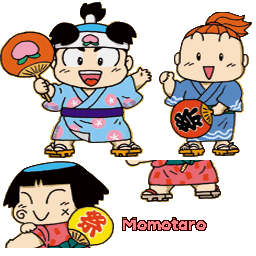
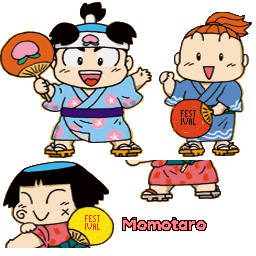
Translate attract-portrait fan lettering and coat numerals

Changed region(s): [[0.6562, 0.4062, 0.8125, 0.5312], [0.2812, 0.8125, 0.4375, 0.9375]]

diff --git a/tools/gfx_intro.py b/tools/gfx_intro.py
@@ -1,0 +1,94 @@
+"""Translate lettering inside the attract portraits, keeping the prop silhouettes.
+
+Only the two fan faces and ten white coat badges are editable. The masks
+exclude the coloured fan ribs, badge borders, cloth and transparent pixels.
+"""
+from PIL import Image
+
+
+# Atlas bounds include all antialiased Japanese ink; new words use native
+# seven-pixel letters, split FEST / IVAL to retain the full word on each fan.
+FANS = [
+    ((76, 210, 107, 239), (248, 224, 8, 255), (224, 56, 24, 255), (85, 215)),
+    ((173, 106, 204, 132), (224, 64, 24, 255), (0, 0, 0, 255), (181, 110)),
+]
+FAN_HANDLES = ((202, 102, 214, 124), (68, 235, 84, 248))
+# Each numeral follows the size/angle of its original badge. Partial badges
+# clip the same numeral at the original coat edge, never repainting the cloth.
+BADGES = [
+    ((124, 32, 138, 41), (130, 36), (6, 11), -48),
+    ((170, 32, 188, 43), (179, 37), (7, 12), 48),
+    ((123, 62, 134, 80), (128, 71), (5, 10), 0),
+    ((171, 62, 185, 82), (178, 72), (7, 11), 8),
+    ((112, 99, 123, 115), (117, 107), (7, 12), -15),
+    ((132, 101, 140, 120), (138, 110), (7, 12), -6),
+    ((168, 109, 176, 121), (169, 115), (7, 12), 22),
+    ((183, 101, 199, 118), (191, 110), (8, 12), 40),
+    ((111, 130, 122, 147), (116, 138), (7, 12), -9),
+    ((190, 134, 204, 149), (198, 142), (8, 12), 28),
+]
+
+
+def rectangles(key):
+    return ([row[0] for row in FANS] if key == 'CHR0D.BIN:1' else
+            [row[0] for row in BADGES] if key == 'CHR0D.BIN:2' else [])
+
+
+def masks(im, key):
+    """Exact allowed pixel mask; tests also protect every excluded prop pixel."""
+    allowed = Image.new('L', im.size)
+    px = im.load()
+    for rect in rectangles(key):
+        x0, y0, x1, y1 = rect
+        for y in range(y0, y1):
+            for x in range(x0, x1):
+                r, g, b, a = px[x, y]
+                if key == 'CHR0D.BIN:1':
+                    editable = a and not any(
+                        left <= x < right and top <= y < bottom
+                        for left, top, right, bottom in FAN_HANDLES)
+                else:
+                    # White/grey/black badge ink, excluding saturated red/green.
+                    editable = a and max(r, g, b) - min(r, g, b) <= 24
+                if editable:
+                    allowed.putpixel((x, y), 255)
+    return allowed
+
+
+def draw(im, key, pal):
+    import gen_gfx
+
+    allowed = masks(im, key)
+    if key == 'CHR0D.BIN:1':
+        for rect, background, ink, (x, y) in FANS:
+            assert background in pal and ink in pal
+            # Yellow fan: remove only the red/cream ink. Red fan: remove the
+            # black/grey lettering. The solid face colour is already present.
+            for py in range(rect[1], rect[3]):
+                for px in range(rect[0], rect[2]):
+                    r, g, b, a = im.getpixel((px, py))
+                    erase = (r > 180 and (g < 170 or b > 90)) if x < 100 else (
+                        max(r, g, b) - min(r, g, b) <= 40 or b > 60)
+                    if allowed.getpixel((px, py)) and erase:
+                        im.putpixel((px, py), background)
+            for n, word in enumerate(('FEST', 'IVAL')):
+                mask = gen_gfx.mask(word, 7, {'pixel': 'credits7.txt', 'tight': True})
+                im.paste(ink, (x, y + n * 8, x + mask.width, y + n * 8 + mask.height), mask)
+    elif key == 'CHR0D.BIN:2':
+        white, black = (240, 232, 232, 255), (0, 0, 0, 255)
+        assert white in pal and black in pal
+        # Hand-drawn numeral, expanded with nearest-neighbour before rotation.
+        six = Image.new('L', (5, 7))
+        for y, row in enumerate(('.###.', '#....', '#....', '####.', '#...#', '#...#', '.###.')):
+            for x, c in enumerate(row):
+                if c == '#':
+                    six.putpixel((x, y), 255)
+        for rect, (cx, cy), size, angle in BADGES:
+            mask = six.resize(size, Image.Resampling.NEAREST).rotate(angle, expand=True)
+            layer = Image.new('L', im.size)
+            layer.paste(mask, (cx - mask.width // 2, cy - mask.height // 2))
+            for y in range(rect[1], rect[3]):
+                for x in range(rect[0], rect[2]):
+                    if allowed.getpixel((x, y)):
+                        im.putpixel((x, y), black if layer.getpixel((x, y)) else white)
+    assert set(im.getdata()) <= pal

diff --git a/tests/test_anm.py b/tests/test_anm.py
@@ -15,6 +15,7 @@ import gfx_layout  # noqa: E402
 import gfx_results  # noqa: E402
 import gfx_racers  # noqa: E402
 import gfx_hud  # noqa: E402
+import gfx_intro  # noqa: E402
 import verify_build  # noqa: E402
 
 
@@ -33,7 +34,7 @@ def test_table_location_and_signed_offsets():
 
 
 @pytest.mark.skipif(not gfx.TREE.exists(), reason='needs work/disc')
-def test_intro_names_preserve_every_character_pixel_and_split_name(tmp_path):
+def test_intro_preserves_art_outside_lettering_and_split_name(tmp_path):
     from PIL import Image
     original = arc.entries((gfx.TREE / 'CHR0D.BIN').read_bytes())
     translated = arc.entries(gfx.apply('CHR0D.BIN', (gfx.TREE / 'CHR0D.BIN').read_bytes()))
@@ -45,7 +46,21 @@ def test_intro_names_preserve_every_character_pixel_and_split_name(tmp_path):
         before, after = tmp_path / f'old{entry}', tmp_path / f'new{entry}'
         anm.render(original, records, before, strict=True)
         anm.render(translated, records, after, strict=True)
-        assert Image.open(before / '000.png').tobytes() == Image.open(after / '000.png').tobytes()
+        # The only portrait edits are fan lettering and coat numerals. Render
+        # a source archive with those edits alone to catch accidental name-box
+        # damage to ANY character, even where atlas fragments are shared.
+        expected = list(original)
+        for texture_entry in (1, 2):
+            key = f'CHR0D.BIN:{texture_entry}'
+            texture, picture = gen_gfx.original(key)
+            palette = {c if c[3] else gen_gfx.CLEAR for c in gfx.palette(texture, 0)}
+            gfx_intro.draw(picture, key, palette)
+            png = tmp_path / f'portrait{texture_entry}.png'
+            picture.save(png)
+            expected[texture_entry] = (original[texture_entry][0], gfx.redraw(texture, png))
+        reference = tmp_path / f'art{entry}'
+        anm.render(expected, records, reference, strict=True)
+        assert Image.open(reference / '000.png').tobytes() == Image.open(after / '000.png').tobytes()
         assert Image.open(before / '001.png').tobytes() != Image.open(after / '001.png').tobytes()
     # The split name reconstructs exactly the same 88x32 canvas as a single
     # English draw, including the narrow third fragment at the lower left.

diff --git a/tests/test_gfx.py b/tests/test_gfx.py
@@ -15,6 +15,7 @@ import gfx_results  # noqa: E402
 import gfx_racers  # noqa: E402
 import gfx_hud  # noqa: E402
 import gfx_signs  # noqa: E402
+import gfx_intro  # noqa: E402
 import tim  # noqa: E402
 
 pytestmark = pytest.mark.skipif(not gfx.TREE.exists(), reason="needs work/disc (dumpsxiso)")
@@ -26,6 +27,29 @@ def test_pixel_labels_have_every_glyph_and_fit():
             if options.get('pixel'):
                 mask = gen_gfx.fit(text, x1 - x0, y1 - y0, options)
                 assert mask.width <= x1 - x0 and mask.height <= y1 - y0, (key, text)
+
+
+def test_intro_props_preserve_silhouettes_cloth_and_fan_handles():
+    from PIL import Image
+    for entry in (1, 2):
+        key = f'CHR0D.BIN:{entry}'
+        _, before = gen_gfx.original(key)
+        after = Image.open(gfx.EN / f'CHR0D_{entry}.png').convert('RGBA')
+        # Restrict this comparison to portrait pixels; names intentionally
+        # change their alpha masks in the lower atlas rows.
+        height = 184 if entry == 2 else 208
+        assert before.crop((0, 0, 256, height)).getchannel('A').tobytes() == (
+            after.crop((0, 0, 256, height)).getchannel('A').tobytes())
+        if entry == 2:
+            for y in range(184):
+                for x in range(256):
+                    c = before.getpixel((x, y))
+                    if max(c[:3]) - min(c[:3]) > 24:
+                        assert after.getpixel((x, y)) == c, (x, y)
+        else:
+            # Bamboo ribs and handles adjacent to both translated fan faces.
+            for rect in ((202, 102, 214, 124), (68, 235, 84, 248)):
+                assert before.crop(rect).tobytes() == after.crop(rect).tobytes()
 
 
 def test_roundtrip_and_one_pixel(tmp_path):
@@ -69,6 +93,7 @@ def test_redraws_change_only_declared_label_rectangles():
             rects += [(u, v, u + w, v + h) for u, v, w, h, _, _ in pieces]
         rects += [(u, v, u + w, v + h) for _, pieces in gen_gfx.COMPOSITES.get(key, [])
                   for u, v, w, h, _, _ in pieces]
+        rects += gfx_intro.rectangles(key)
         name, entry = key.split(':')
         t, _ = gen_gfx.original(key)
         png = gfx.EN / f'{Path(name).stem}_{entry}.png'

diff --git a/tools/gen_gfx.py b/tools/gen_gfx.py
@@ -32,6 +32,7 @@ import gfx_results  # noqa: E402
 import gfx_racers  # noqa: E402
 import gfx_hud  # noqa: E402
 import gfx_signs  # noqa: E402
+import gfx_intro  # noqa: E402
 
 FONT = ROOT / 'fonts' / 'ofl' / 'Fredoka.ttf'
 CLEAR = (0, 0, 0, 0)
@@ -389,6 +390,8 @@ def generate(keys=None):
             gfx_hud.draw_panel(im)
         if key in gfx_signs.SIGNS:
             gfx_signs.draw(im, key, pal)
+        if key.startswith('CHR0D.BIN:'):
+            gfx_intro.draw(im, key, pal)
         for k in same[t]:
             name, _, e = k.partition(':')
             out = gfx.EN / f'{Path(name).stem}_{e}.png'

diff --git a/docs/re/character-props-qa.md b/docs/re/character-props-qa.md
@@ -1,0 +1,94 @@
+# Character portrait lettering (phase 8)
+
+The remaining lettering in the five title-attract portraits is translated:
+Kintaro and Urashima's fans say **Festival**, and Ishikawa Rokuemon's ten coat
+badges use **6** for their stylized 六 marks. This closes the portrait lettering
+in survey rows #1/#2, including the earlier name-label work. It does not close
+phase 8, the four separate GCV0310 name tags, or other occurrences of festival
+marks in ending/card artwork.
+
+## Source and preservation
+
+`tools/gfx_intro.py` redraws only bounded regions of CHR0D:1/2. Both fans use
+the complete word, split FEST / IVAL in the existing seven-pixel condensed
+font. Their colours come from the original palette. The coat uses a hand-drawn
+5x7 numeral, scaled/rotated to match the badges; two badges show the complete
+numeral and eight are naturally clipped by the coat edges or folds.
+
+All palettes, ANM records, timings and sprite positions are unchanged. The
+archive-wide exact-TIM duplicate search finds only these two affected images.
+The pixel-range test allows the named regions only; the portrait test renders
+every character to ensure the name-label redraws do not damage other artwork.
+A separate preservation test checks alpha silhouettes, all coloured coat
+pixels, and both bamboo fan handles. The first redraw failed that last test at
+two rib pixels, which are now explicitly excluded. The narrow left badge also
+needed its numeral moved left one pixel to preserve its closed lower loop.
+
+## Cold reproduction
+
+```text
+python -X utf8 tools/gen_gfx.py --only CHR0D.BIN:1 CHR0D.BIN:2
+python -X utf8 tools/build.py
+python -X utf8 tools/debug/character_intro.py --out work/qa/props8_final
+python -X utf8 tools/debug/character_intro.py --original --out work/qa/props8_original
+```
+
+The existing harness waits through the natural title sequence for 9,600 frames,
+without controller input, save data, warps or RAM substitutions. Both runs pass
+**5/5 complete character/name pairs**, matched in the same screenshot. The
+complete portrait match includes all edited prop pixels, not just the name.
+
+| Character | Frame on both discs | Portrait position |
+|---|---|---|
+| Momotaro | 6540 | 24,48 |
+| Kintaro | 7080 | 168,66 |
+| Urashima | 7560 | 176,40 |
+| Yashahime | 8040 | 32,24 |
+| Ishikawa Rokuemon | 8520 | 40,16 |
+
+The intro produces no textlog output: **0 Japanese lines in 0 logs** supplies
+no text coverage. Approval rests on the full-portrait oracle and visual pass.
+
+## Fresh read-only review (D10)
+
+After the final build and cold runs, the worker inspected all three full-screen
+comparison sheets at 2x, with English left and original right. The verdicts in
+`work/qa/props8_review/verdicts/fresh.tsv` accept all three: both full fan words
+are readable, the two complete numerals have their closed lower loops, partial
+badges follow the original folds, and the characters/full names remain intact.
+The fans have subtle original colour variation around the lettering; this is
+not remaining Japanese text. No changes were made after this review.
+
+| Sheet | SHA-1 | Verdict |
+|---|---|---|
+| kintaro_sheet | de8d340e221103a2c8b1a416b518e9cf4fcbf559 | ok |
+| urashima_sheet | 56c7db85a751a13f62d9d36970fae19b93b0bdc7 | ok |
+| rokuemon_sheet | 5971ebc8e5edf75670ed0ce731cff2ef20a584a5 | ok |
+
+Regenerate each sheet with the skill's `sheet.py`, passing the English frame,
+`--compare` the same original frame, `--zoom 2`, and the corresponding
+`--out work/qa/props8_review/<name>_sheet.png`. Then run:
+
+```text
+python -X utf8 <skill>/scripts/qa_gate.py init work/qa/props8_review/manifest.tsv work/qa/props8_review
+python -X utf8 <skill>/scripts/qa_gate.py check work/qa/props8_review/manifest.tsv work/qa/props8_review/verdicts
+```
+
+The scoped gate passes **3/3 sheets**. This is a fresh self-review explicitly
+permitted by D10, not an independent agent review or a phase-wide verdict.
+
+## Build and remaining work
+
+`build/momotarou-matsuri_en.bin`: **182,491,680 bytes**, **2026-11-01 07:11:40 UTC**,
+SHA-1 **6fd935950a81755dcc5a37796150790508af9c6c**. Validation: **76 tests passed**,
+lint 0; verifier **369 changed files / 0 errors**; cold smoke
+`work/qa/props8_smoke` passes.
+
+Phase 8 remains incomplete. Other card/ending/town graphics, the full visual
+manifest, caption routes, saved-record categories, natural minigame outcomes
+and corrected map-interaction/story-state coverage are still open. These three
+sheets do not authorize phase 9 or a release.
+
+Gotcha for `references/graphics.md`: a bounding rectangle around lettering on a
+prop may include the prop's ribs or handle; preserve those with an explicit
+pixel exclusion and regression comparison. No shared skill files were changed.

diff --git a/docs/status.md b/docs/status.md
@@ -4,6 +4,18 @@ Updated at the end of every session. Keep it to what the next session needs; his
 
 - **Phase:** **8 in progress** (QA in the emulator), then 9 (release).
 - **Done (phase 8 so far, 2026-11-01):**
+  - Attract-portrait prop checkpoint: both fans now say the complete Festival (FEST / IVAL); Rokuemon's ten
+    stylized six badges use 6, with the eight partial badges clipped by their original coat edges/folds.
+    Explicit masks preserve fan ribs/handles, coloured cloth, borders and all sprite/animation data.
+    Regression checks caught two rib pixels and the narrow numeral's lower-loop clipping; both are fixed.
+  - Natural cold original and English runs each pass **5/5 complete character/name pairs**, including every
+    prop pixel. Fresh read-only D10 review accepts **3/3 scoped full-screen comparisons**;
+    `docs/re/character-props-qa.md` records reproduction and verdict hashes. Survey rows #1/#2 portrait
+    lettering are covered; separate ending/card festival marks and GCV0310 tags are not.
+  - Latest validation: **76 tests passed**, lint 0; verifier **369 changed files / 0 errors**; cold smoke
+    `work/qa/props8_smoke` passed. Intro textlog emits no lines, so 0 logs is not text coverage.
+    Main disc: **182,491,680 bytes**, **2026-11-01 07:11:40 UTC**, SHA-1
+    **6fd935950a81755dcc5a37796150790508af9c6c**. **Phase 8 remains incomplete; do not advance to release.**
   - Character-introduction checkpoint: Momotaro, Kintaro, Urashima, Yashahime and the full Ishikawa Rokuemon
     name are English in CHR0D:1/2. Yashahime was three fragments of one name, not two copies; the composite
     redraw and regression test preserve every character pixel and all ANM data.
@@ -221,9 +233,9 @@ Updated at the end of every session. Keep it to what the next session needs; his
     156,128 bytes (game_m25/m70-72 minigames), so English growth (a few KB per file) is far from the limit.
     15 runs of that sweep died with emulator exit -1 while other emulators ran; all 15 passed on a rerun.
 - **Next (phase 8):**
-  - Character names now have natural attract-mode proof. The Japanese festival marks on Kintaro/Urashima's
-    fans and Rokuemon's costume marks still need translation/classification under D5; the four small name
-    tags in GCV0310D:13 are separate. `character-intro-qa.md` records exact name-piece bounds and cold routes.
+  - Character names, fan lettering and coat numerals now have natural attract-mode proof. The four small
+    name tags in GCV0310D:13 are separate outstanding work. `character-intro-qa.md` and
+    `character-props-qa.md` record exact bounds, preservation tests and cold routes.
   - Re-run the full text/visual tour with the corrected destination initializers. Older map shots lacked the
     proper actors and cannot support complete dialogue, animated decoration or story-state coverage. Use
     `map-initializers.md` and `work/qa/mapinit8_all/result.tsv` for the 358 passing cold entries; add interaction

diff --git a/docs/re/graphics.md b/docs/re/graphics.md
@@ -36,8 +36,9 @@ Every Japanese-bearing image found by five read-only reviewers over all 80 sheet
 Open for later phases:
 - Character-introduction names: all five full names are English with natural cold title-attract proof,
   5/5 complete character/name pairs on each disc and 5 scoped visual sheets (`character-intro-qa.md`).
-  Yashahime is three fragments of one name, not two copies. Japanese festival-fan lettering and costume
-  marks remain separate open graphics work; these verdicts do not approve those marks.
+  Yashahime is three fragments of one name, not two copies. Follow-up `character-props-qa.md` covers both
+  Festival fans and all ten coat numerals with new natural 5/5 pair matches and 3/3 scoped comparison sheets.
+  Separate ending/card marks and the four GCV0310 tags remain outside this portrait approval.
 - Field signs: both Pun Contest atlases are English; only GV13000D:2 has a cold display proof. The men's/women's
   bath curtains have six cold matches across all three atlas copies. Four scoped visual sheets are accepted;
   the tiny restored bath-counter placard remains unclassified (`field-signs-qa.md`). The corrected map warps

diff --git a/docs/fonts.md b/docs/fonts.md
@@ -9,3 +9,4 @@ per file; a font with no known licence doesn't go into a release.
 | fonts/hud7.txt | hand-drawn in this project, 2026-11-01 | MIT (repository LICENSE) | yes | small M990D HUD word sprites | 7-pixel capitals; no antialiasing |
 | fonts/credits7.txt | hand-drawn in this project, 2026-11-01 | MIT (repository LICENSE) | yes | EVT600D credits, long Card Album region names, narrow HUD labels, Streak, Which?, M06 speech bubbles and M23 race names/labels | condensed 7-pixel capitals; no antialiasing or resampling |
 | fonts/ofl/Fredoka.ttf | github.com/google/fonts ofl/fredoka (variable wdth,wght), fetched 2026-11-01 | SIL OFL 1.1 (fonts/ofl/Fredoka-OFL.txt) | yes (pixels drawn from it ship in the patch) | graphics-text redraws (tools/gen_gfx.py) | - |
+| tools/gfx_intro.py numeral 6 | hand-drawn in this project, 2026-11-01 | MIT (repository LICENSE) | yes | Rokuemon's coat badges in the attract portrait | nearest-neighbour scale/rotation within original badges; fan words use fonts/credits7.txt |
